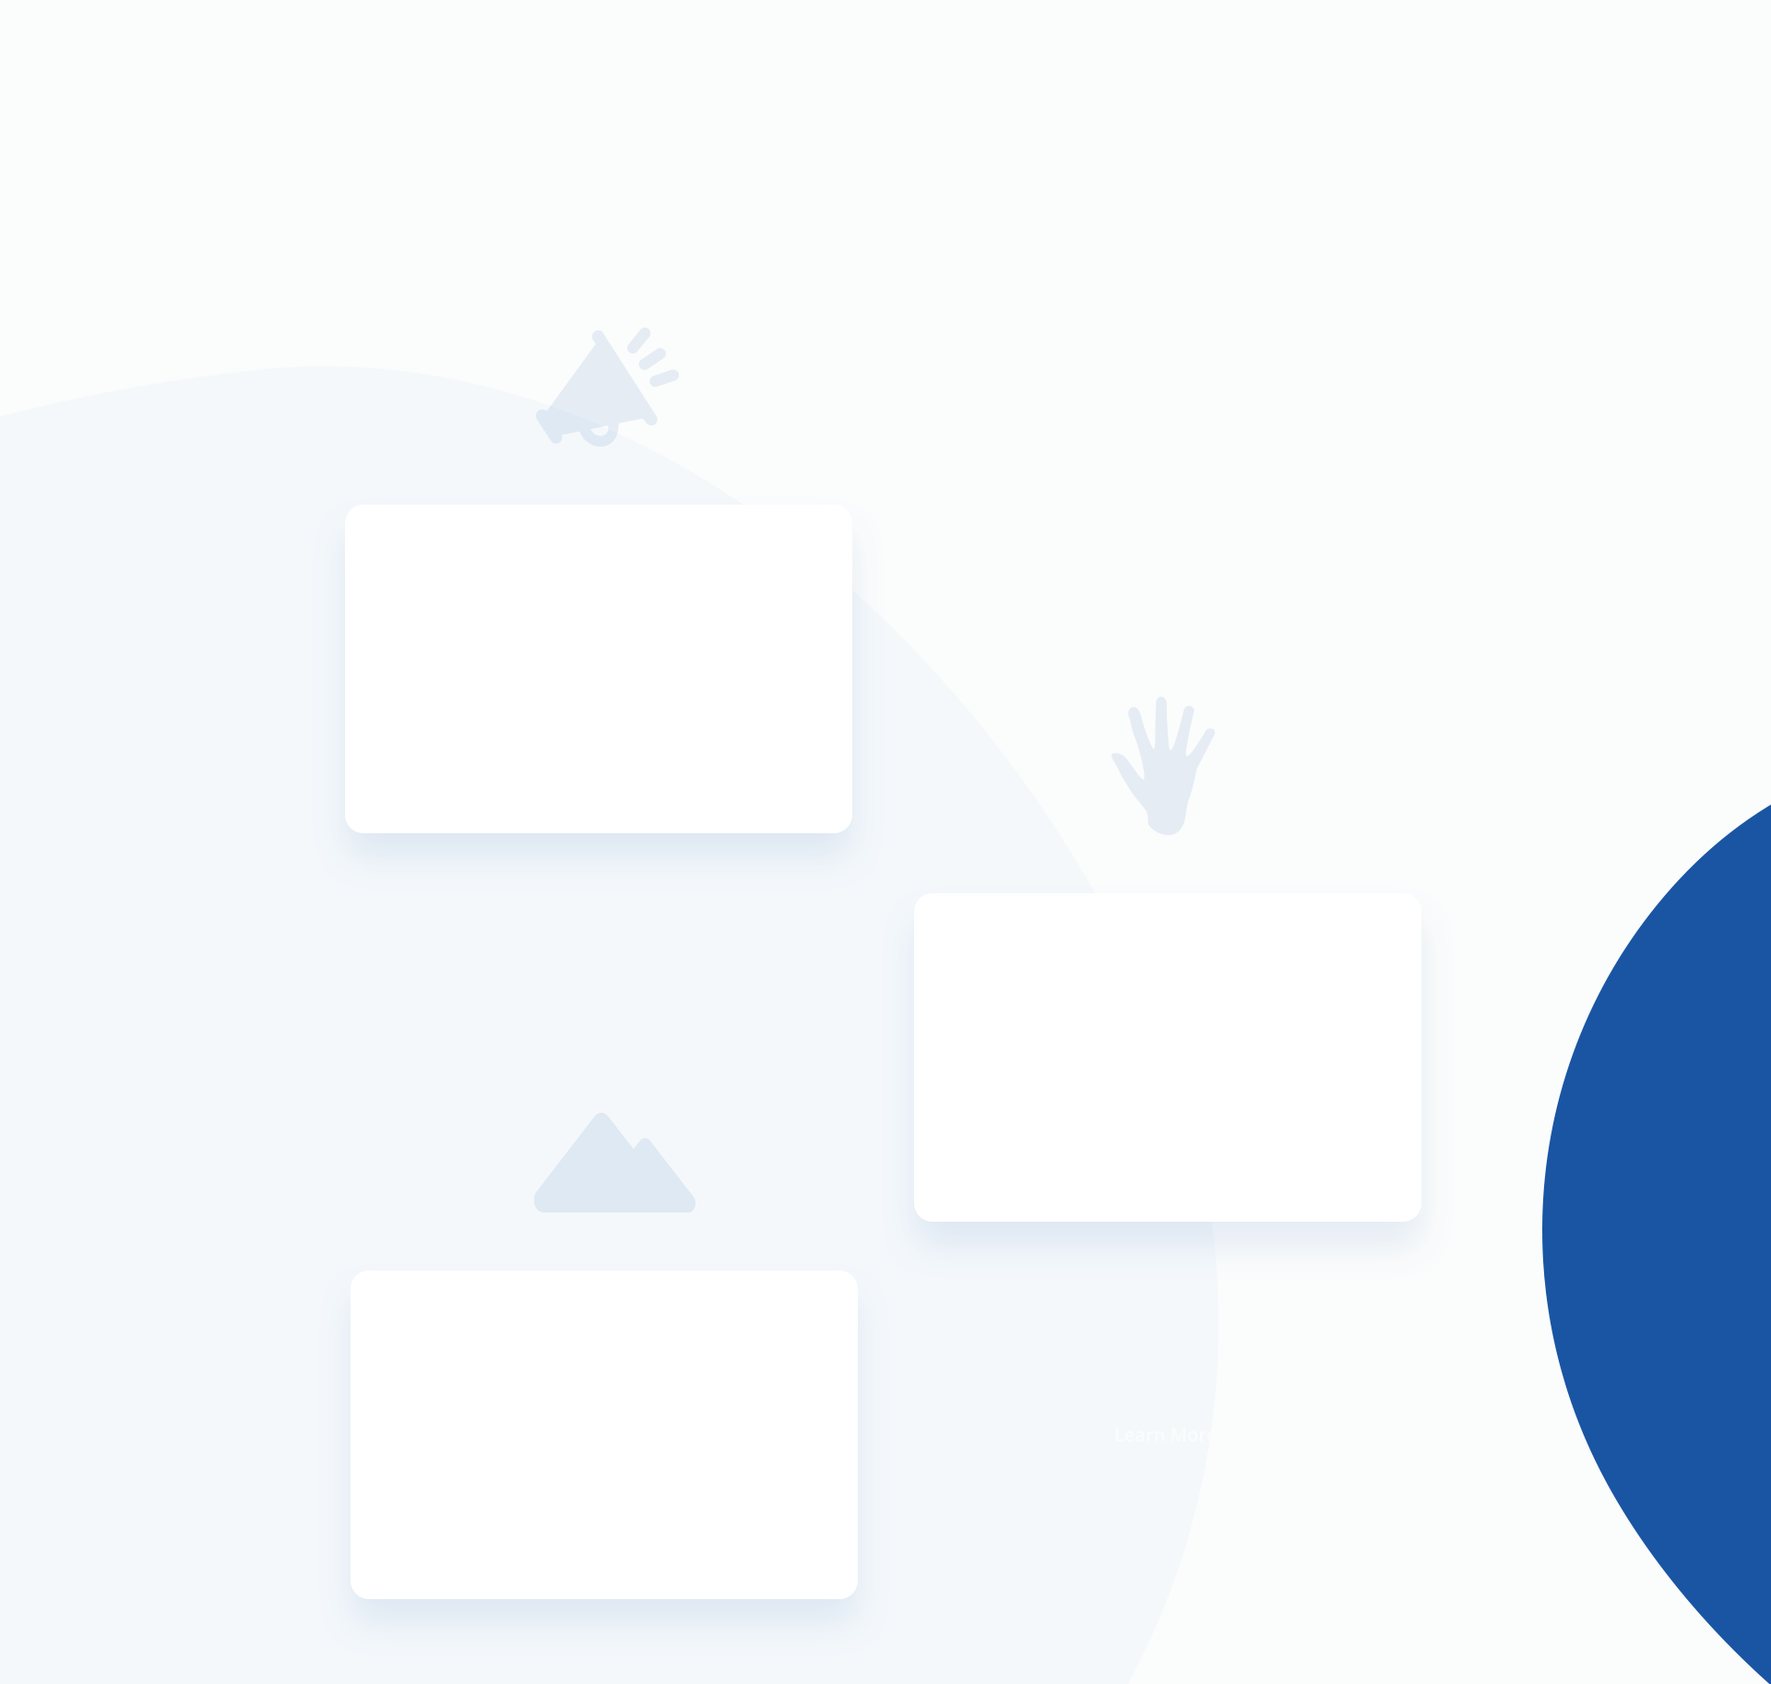
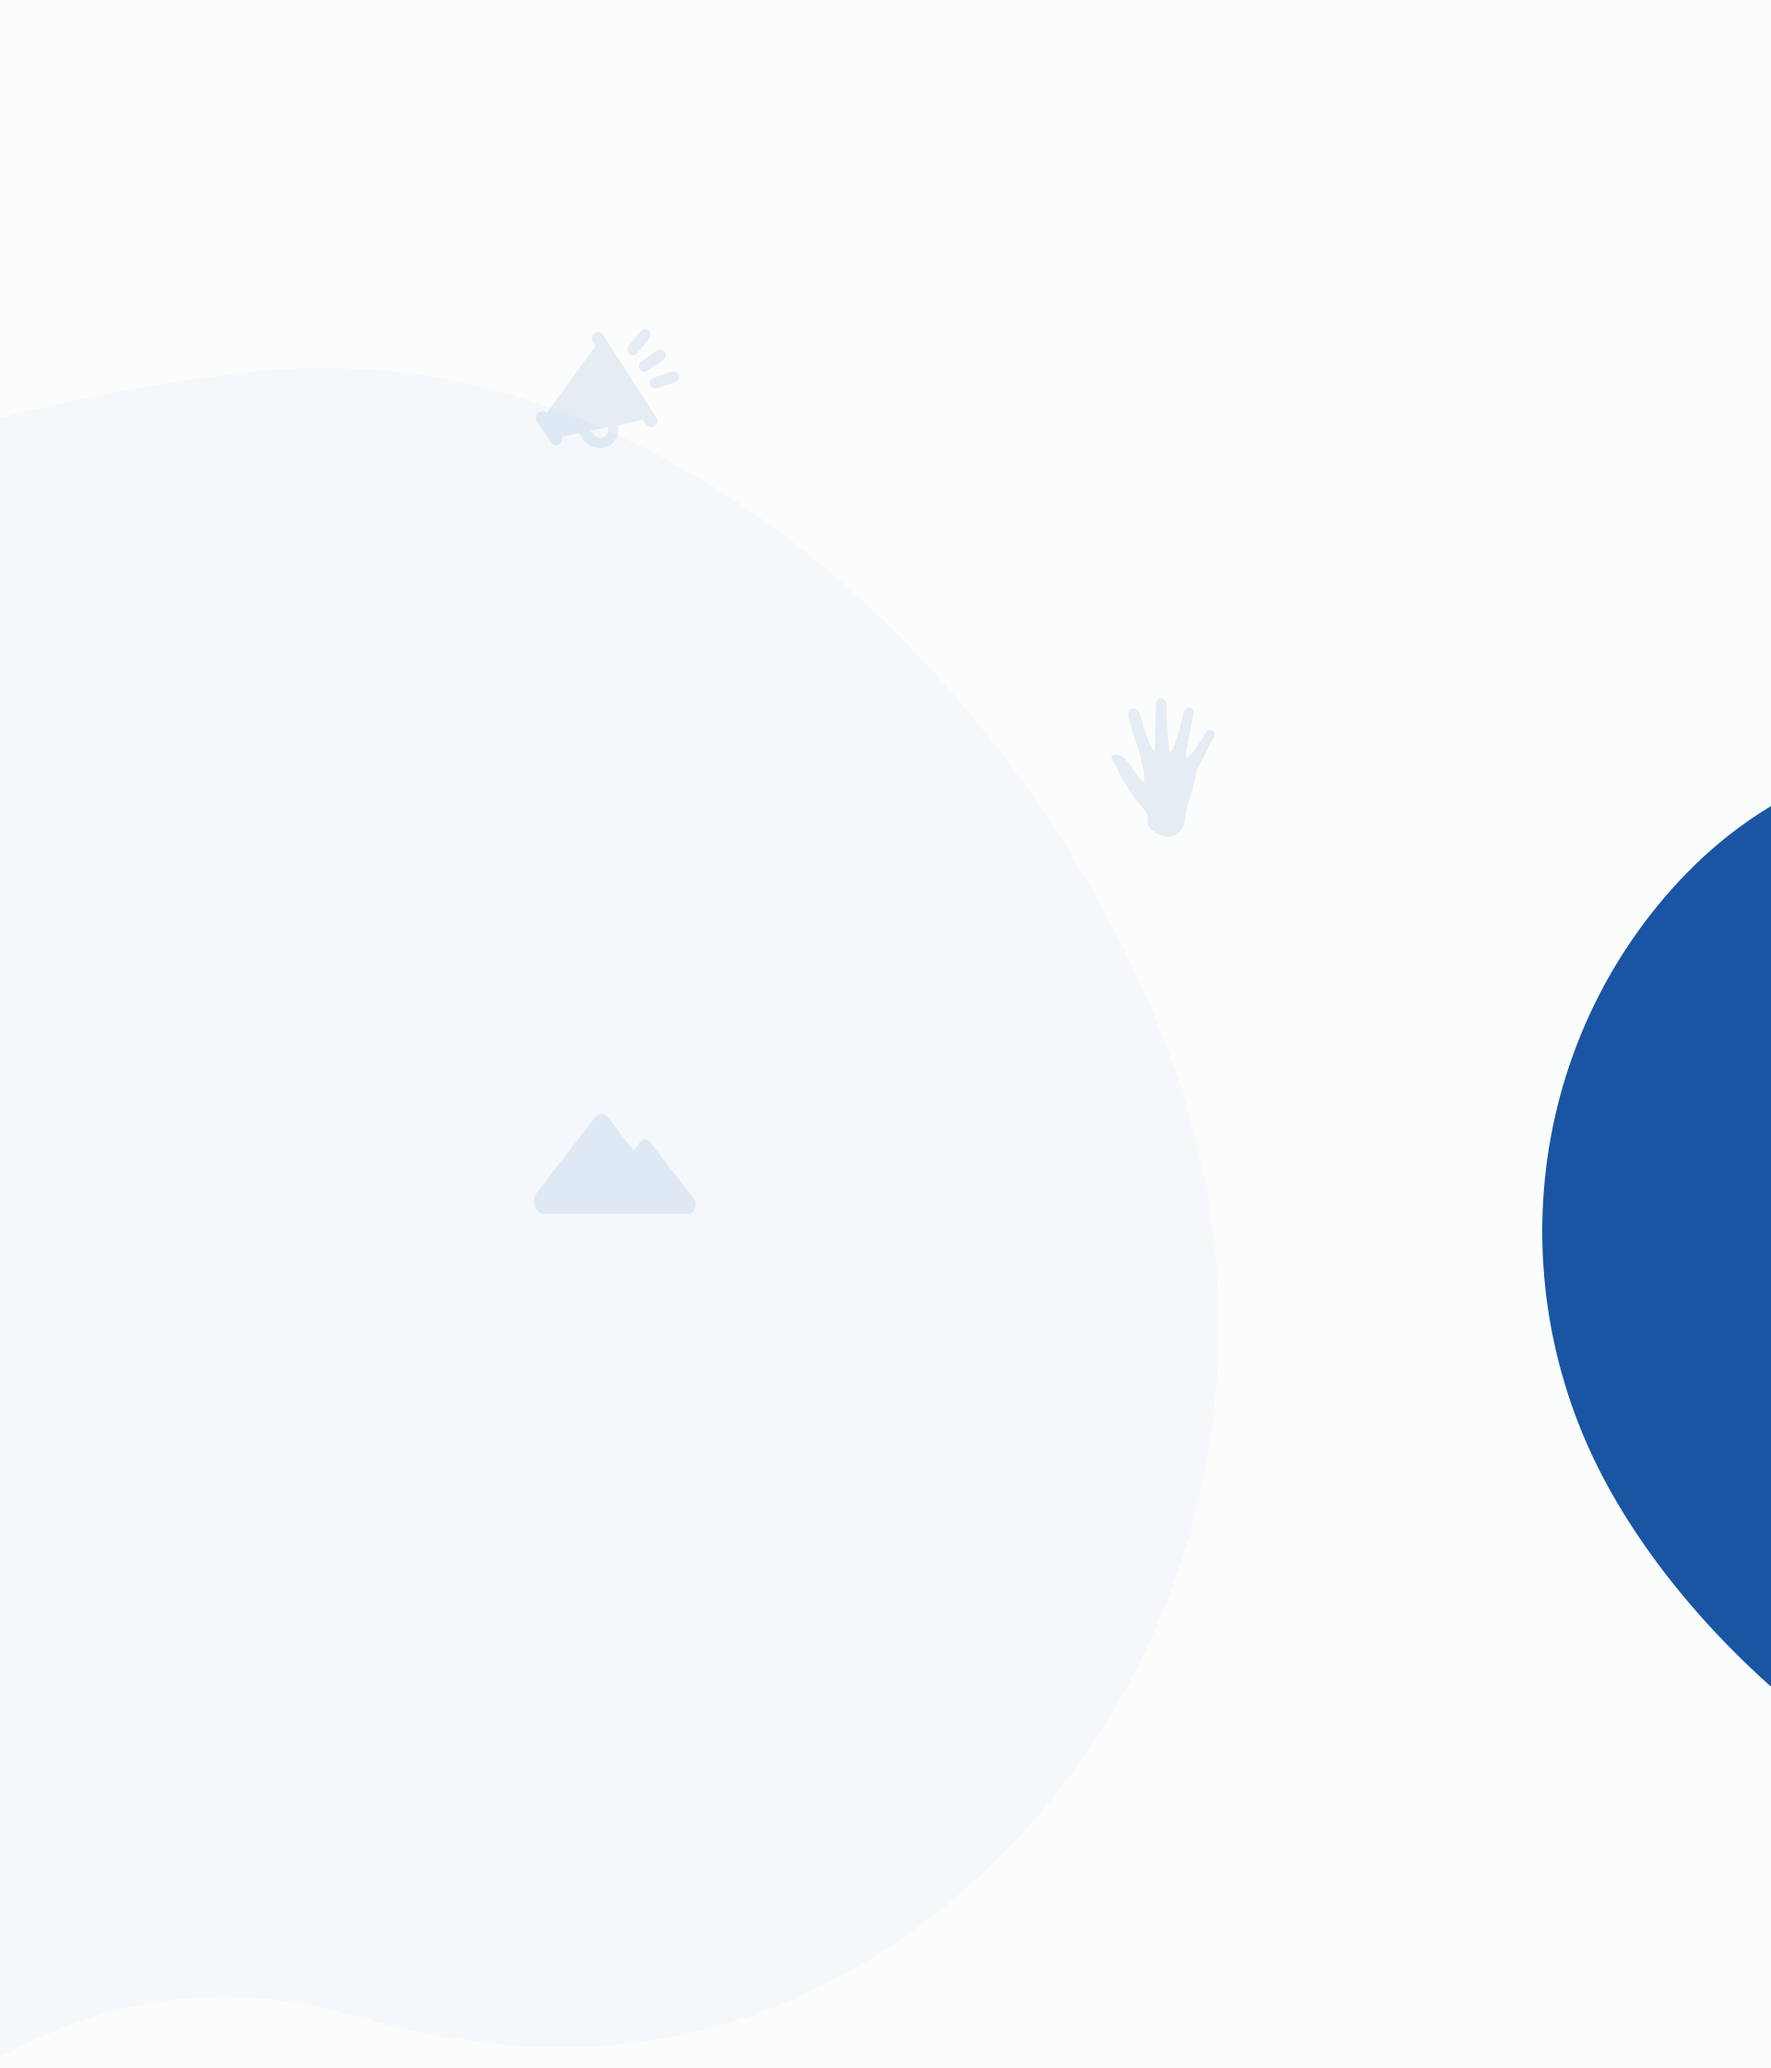
Add files via upload

Changed region(s): [[0.8438, 0.3748, 1.0, 0.9995], [0.2812, 0.1874, 0.3438, 0.2186]]

diff --git a/index.html b/index.html
@@ -87,8 +87,10 @@
         </div>
         
       </div>
+
+
       <div class="row">
-        <div class="col-md-12">
+        <div class="col-md-5 offset-1">
           <div class="adv-text">
             <h4>Advocate</h4>
             <p>We work with Congress, Federal agencies, and<br/> partners on policy issues and legislation to ensure<br/> funding for trails, preservation of natural areas, and<br/> protection of the hiking experience.</p>
@@ -96,7 +98,7 @@
         </div>
       </div>
       <div class="row">
-        <div class="col-md-12">
+        <div class="col-md-6 offset-md-5">
           <div class="vol-text">
             <h4>Volunteer</h4>
             <p>Trails don't maintain themselves. Individuals of<br/> any age and experience level can become trail<br/> stewards. Give back to the trails you love, meet<br/> new people, and enjoy the experience!</p>
@@ -104,7 +106,7 @@
         </div>
       </div>
       <div class="row">
-        <div class="col-md-6">
+        <div class="col-md-5 offset-1">
           <div class="exp-text">
             <h4>Explore</h4>
             <p>Feel confident when you set out on your next<br/> trail adventure. Check out our free hiking<br/> resources like tips for hiking with families, gear<br/> checklists, finding the best trail for you.</p>
@@ -116,15 +118,7 @@
           </div>
         </div>
       </div>
-    </div>
-  </section>
 
-  <!-- body-section end -->
-
-
-  <!-- counter-section start -->
-  <section class="counter-section">
-    <div class="cotainer">
       <div class="row">
         <div class="col-md-12">
           <div class="counter-text">
@@ -132,9 +126,76 @@
           </div>
         </div>
       </div>
+      <div class="row">
+        <div class="col-md-4">
+          <div class="mobilized-text">
+            <h4>We’ve Mobilized</h4>
+            <h2>558,768</h2>
+            <h4>Trail Volunteers</h4>
+          </div>
+        </div>
+        <div class="col-md-4">
+          <div class="facilitated-text">
+            <h4>We’ve Facilitated</h4>
+            <h2>41,146</h2>
+            <h4>Miles of Trail Maintenance & <br/>Construction</h4>
+          </div>
+        </div>
+        <div class="col-md-4">
+          <div class="contributed-text">
+            <h4>Volunteers Have Contributed</h4>
+            <h2>$108 Million</h2>
+            <h4>in Volunteer Labor</h4>
+          </div>
+        </div>
+      </div>
     </div>
   </section>
-  <!-- counter-section end -->
+
+  <!-- body-section end -->
+
+
+  <!-- current-news section start -->
+  <section class="current-news">
+    <div class="container">
+      <div class="row">
+        <div class="col-md-12">
+          <div class="current-text">
+            <h2>Protecting Trails: Current News and Issues</h2>
+          </div>
+        </div>
+      </div>
+      <div class="row">
+        <div class="card-deck">
+          <div class="card">
+            <img src="images/news1.png" class="card-img-top" alt="...">
+            <div class="card-body">
+              <h5 class="card-title">Card title</h5>
+              <p class="card-text">This is a longer card with supporting text below as a natural lead-in to additional content. This content is a little bit longer.</p>
+              <p class="card-text"><small class="text-muted">Last updated 3 mins ago</small></p>
+            </div>
+          </div>
+          <div class="card">
+            <img src="images/news2.png" class="card-img-top" alt="...">
+            <div class="card-body">
+              <h5 class="card-title">Card title</h5>
+              <p class="card-text">This card has supporting text below as a natural lead-in to additional content.</p>
+              <p class="card-text"><small class="text-muted">Last updated 3 mins ago</small></p>
+            </div>
+          </div>
+          <div class="card">
+            <img src="images/news3.png" class="card-img-top" alt="...">
+            <div class="card-body">
+              <h5 class="card-title">Card title</h5>
+              <p class="card-text">This is a wider card with supporting text below as a natural lead-in to additional content. This card has even longer content than the first to show that equal height action.</p>
+              <p class="card-text"><small class="text-muted">Last updated 3 mins ago</small></p>
+            </div>
+          </div>
+        </div>
+      </div>
+    </div>  
+  </section>
+  <!-- current-news section end -->
 
 
 

diff --git a/css/style.css b/css/style.css
@@ -30,6 +30,7 @@ a, a:hover{
 	width: 100%;
 	background: url("../images/header-bg.png") center top no-repeat;
 	background-size: cover;
+	padding:20px 0px 180px;
 }
 .header-section .menu{
 	width: 100%;
@@ -71,13 +72,13 @@ a, a:hover{
 
 .header-section .banner{
 	width: 100%;
-	padding: 60px 0px 170px;
 }
 .header-section .banner .banner-inner{
 	width: 100%;
 	padding: 50px 0px 150px 100px;
 }
 .header-section .banner .banner-inner h1{
+	padding: 100px 0px;
 	font-size: 40px;
 	line-height: 50px;
 	font-weight: 700;
@@ -116,6 +117,7 @@ a, a:hover{
 	width: 100%;
 	background: url("../images/body-bg.png") center top no-repeat;
 	background-size: cover;
+	padding: 50px 0px;
 }
 .body-section .inner-text{
 	width: 100%;
@@ -129,10 +131,13 @@ a, a:hover{
 	color: #263238;
 }
 .body-section .adv-text{
-	margin-top: 320px;
-	margin-left: 175px;
+	width: 100%;
+	background: #fff;
+	padding: 30px;
+	margin-top: 290px;
 }
 .body-section .adv-text h4{
+	margin-top: 20px;
 	font-size: 20px;
 	font-weight: 700;
 	color: #263238;
@@ -144,8 +149,10 @@ a, a:hover{
 	color: #546e7a;
 }
 .body-section .vol-text{
+	width: 100%;
+	background: #fff;
+	padding: 30px;
 	margin-top: 100px;
-    margin-left: 620px;
 }
 .body-section .vol-text h4{
 	font-size: 20px;
@@ -160,8 +167,10 @@ a, a:hover{
 }
 
 .body-section .exp-text{
-	margin-top: 75px;
-    margin-left: 195px;
+	width: 100%;
+	background: #fff;
+	padding: 30px;
+	margin-top: 100px;
 }
 .body-section .exp-text h4{
 	font-size: 20px;
@@ -176,7 +185,7 @@ a, a:hover{
 }
 .body-section .exp-button .btn-info{
 	padding: 15px 35px;
-	margin-top: 140px;
+	margin-top: 215px;
     margin-left: 125px;
 	background: #2870db;
 	color: #fff;
@@ -190,6 +199,63 @@ a, a:hover{
 .body-section .exp-button .btn-info:hover{
 	background: #1955a3;
 }
+
+.body-section .counter-text{
+	width: 100%;
+	text-align: center;
+	margin-top: 275px;
+}
+.body-section .counter-text h2{
+	margin-top: 50px;
+	font-size: 25px;
+	font-weight: 700;
+	color: #263238;
+}
+.body-section .mobilized-text{
+	width: 100%;
+	text-align: center;
+	padding: 50px 0px;
+}
+.body-section .mobilized-text h4{
+	font-size: 14px;
+	color: #263238;
+}
+.body-section .mobilized-text h2{
+	font-size: 24px;
+	font-weight: 700;
+	color: #1a56a3;	
+}
+
+.body-section .facilitated-text{
+	width: 100%;
+	text-align: center;
+	padding: 50px 0px;
+}
+.body-section .facilitated-text h4{
+	font-size: 14px;
+	color: #263238;
+}
+.body-section .facilitated-text h2{
+	font-size: 24px;
+	font-weight: 700;
+	color: #1a56a3;	
+}
+
+.body-section .contributed-text{
+	width: 100%;
+	text-align: center;
+	padding: 50px 0px;
+}
+.body-section .contributed-text h4{
+	font-size: 14px;
+	color: #263238;
+}
+.body-section .contributed-text h2{
+	font-size: 24px;
+	font-weight: 700;
+	color: #1a56a3;	
+}
+
 /***********************************
       body-section css end
 ***********************************/
@@ -198,20 +264,7 @@ a, a:hover{
       counter-section css start
 ***********************************/
 
-.counter-section{
-	width: 100%;
-}
-.counter-section .counter-text{
-	width: 100%;
 
-	text-align: center;
-}
-.counter-section .counter-text h2{
-	margin-top: 50px;
-	font-size: 25px;
-	font-weight: 700;
-	color: #263238;
-}
 
 /***********************************
       counter-section css end
